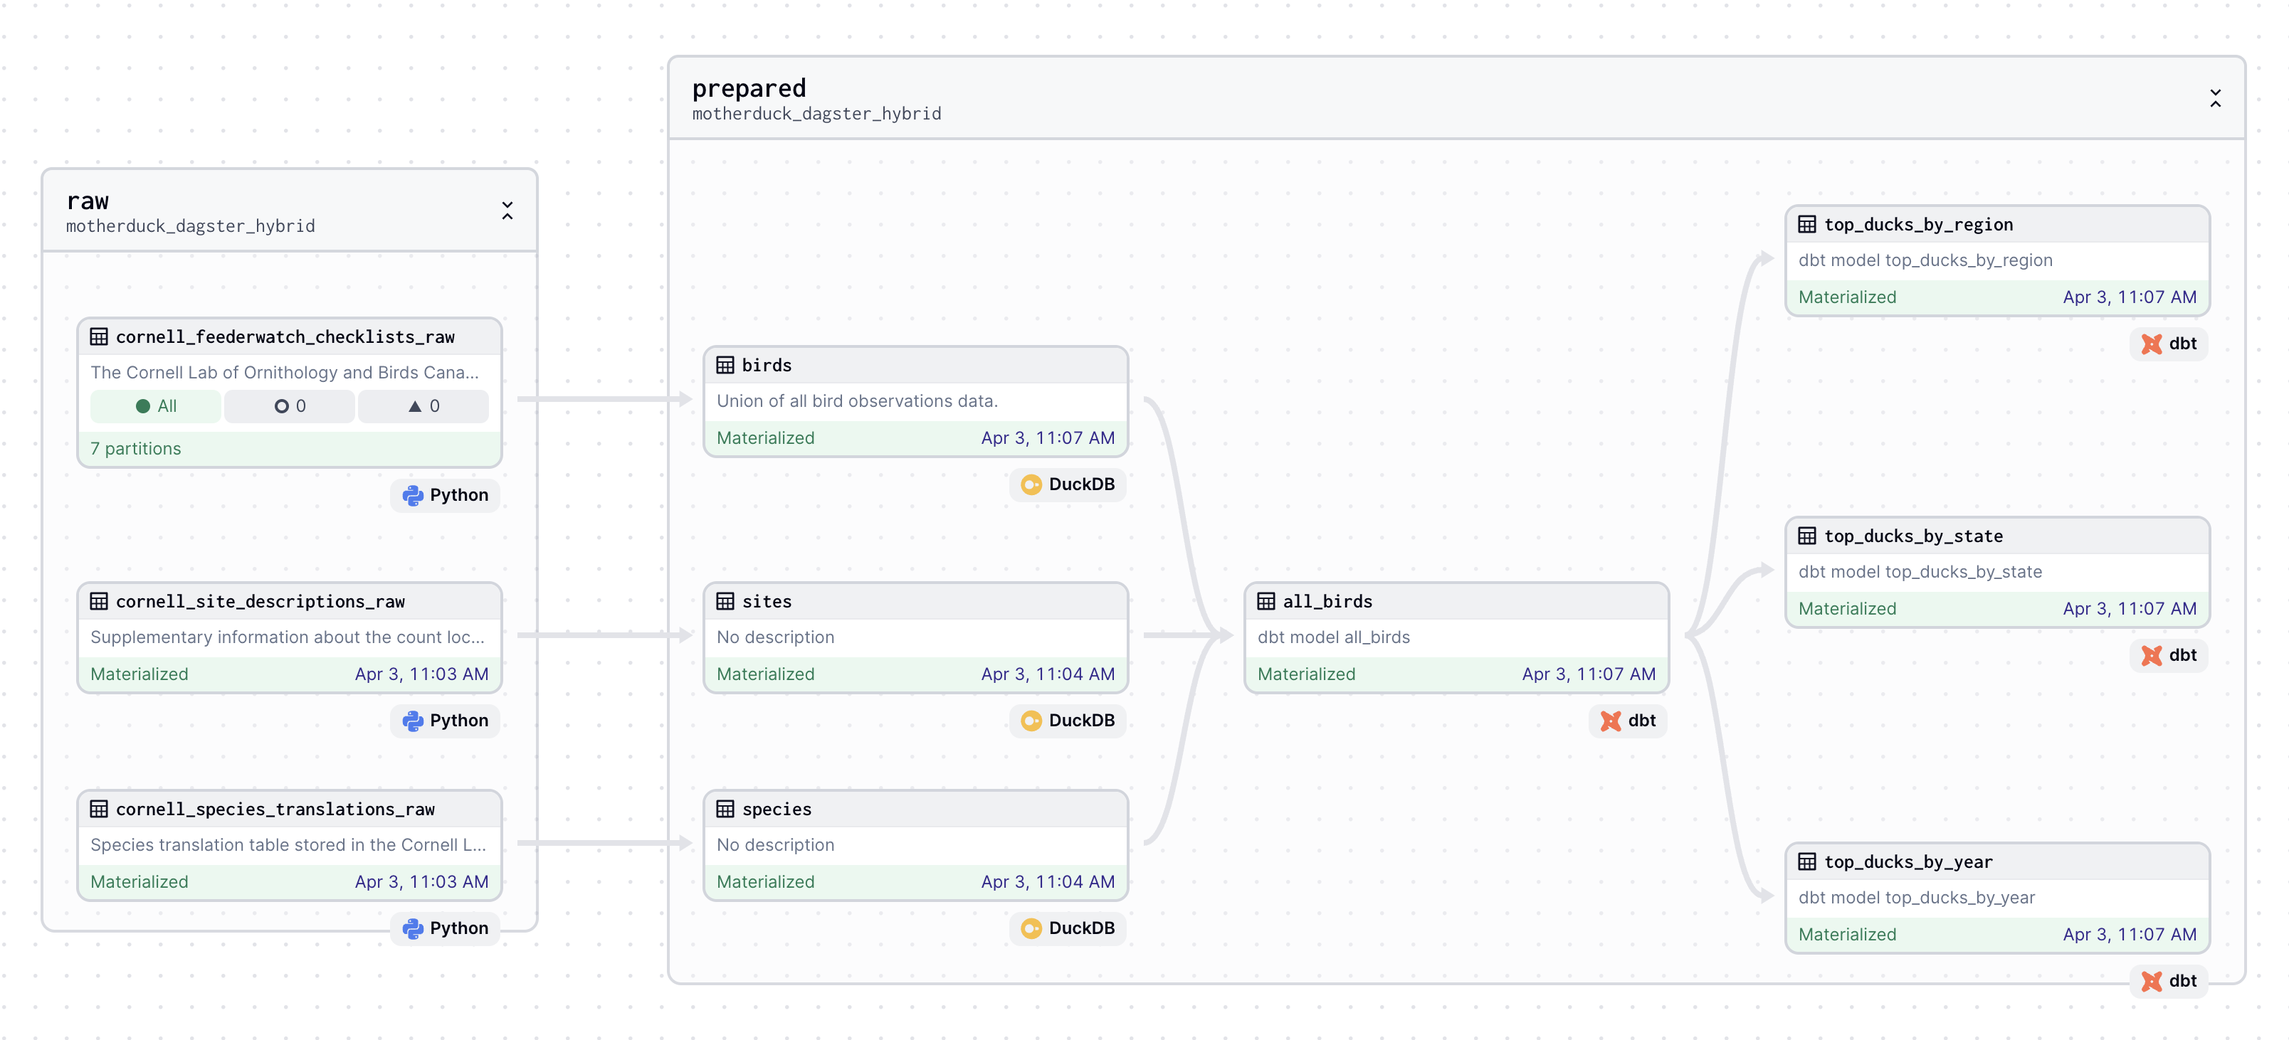
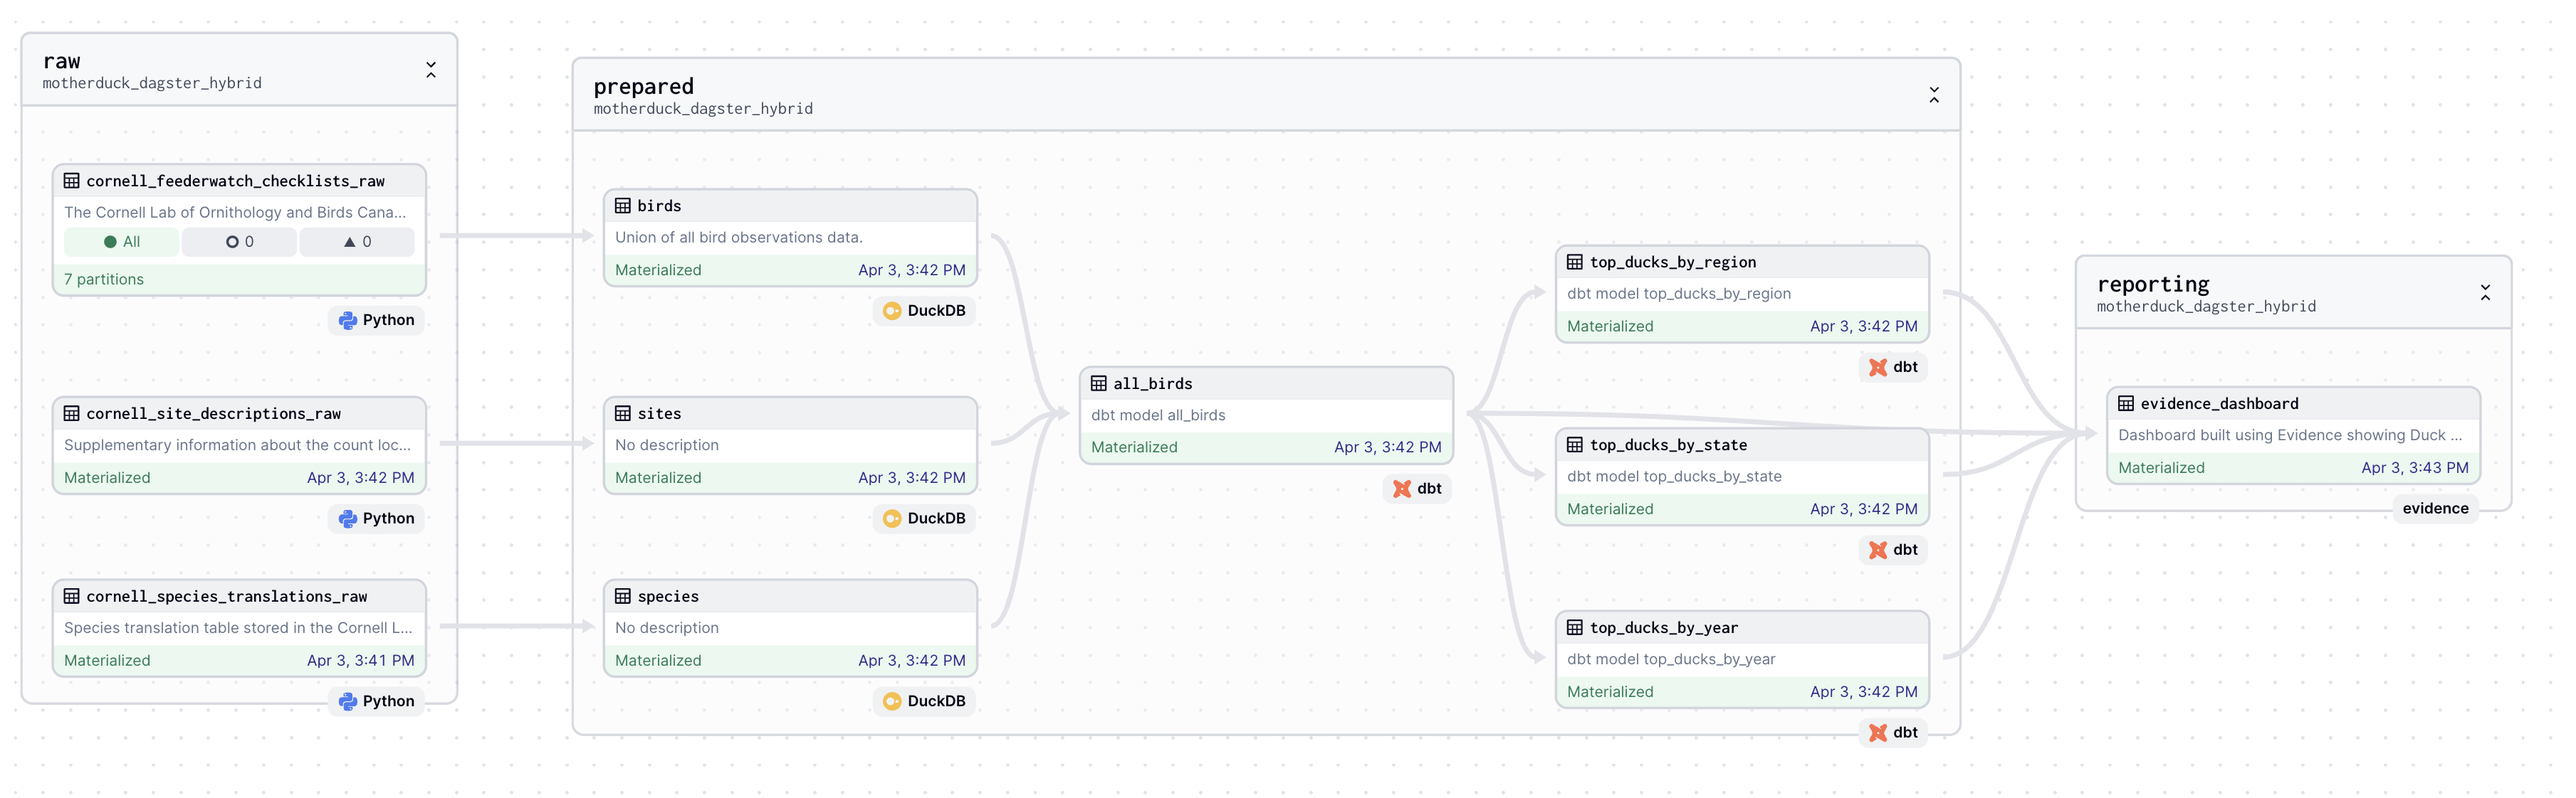
update asset graph; mention preview in readme

diff --git a/motherduck-dagster-hybrid-compute/README.md b/motherduck-dagster-hybrid-compute/README.md
@@ -32,16 +32,10 @@ Navigate to http://localhost:3000/, and click Materialize all to run the end-to-
 
 ### Evidence
 
-Install the required Node packages in the:
+The pipeline will generate the Evidence dashboard HTML files. To preview the dashboard you can use the following directive:
 
 ```bash
-make evidence-install
-```
-
-Run the Evidence development server:"
-
-```bash
-make evidence
+make evidence-preview
 ```
 
 Navigate to http://localhost:4000/ to view the report.
